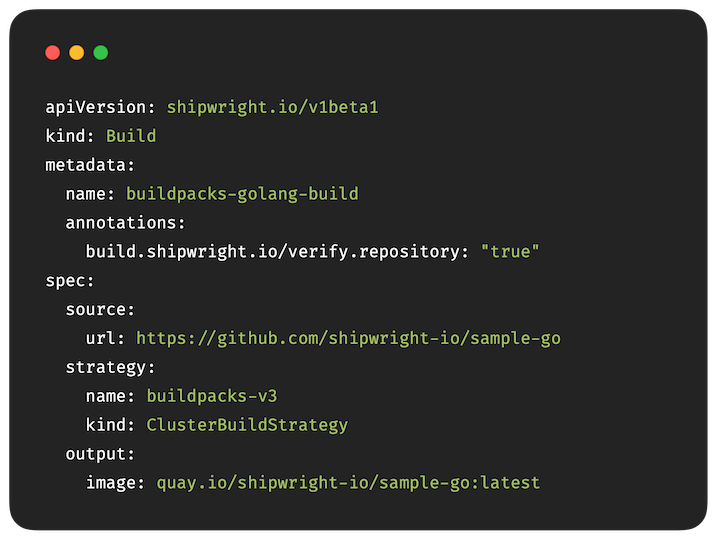
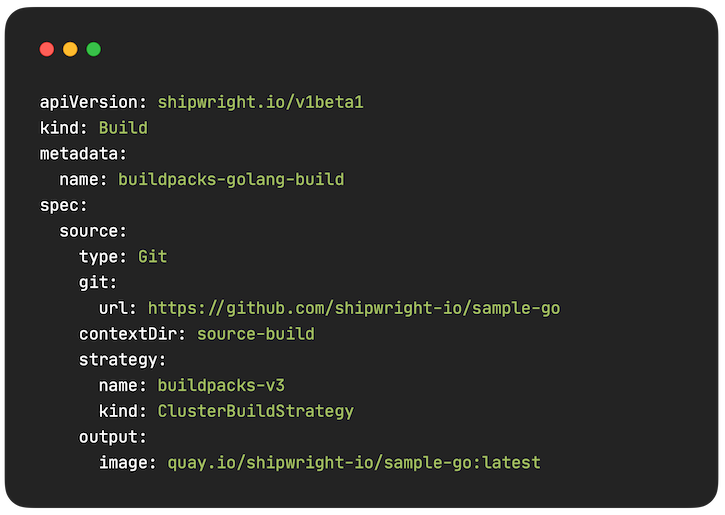
fix: correct docs typos

Changed region(s): [[0.0, 0.0, 1.0, 0.9942], [0.0611, 0.0621, 0.1528, 0.1243], [0.6722, 0.435, 0.7333, 0.4971]]

diff --git a/content/docs/introduction.md b/content/docs/introduction.md
@@ -49,20 +49,21 @@ The `Build` object provides a playbook on how to assemble your specific applicat
 build consists of a git source, a build strategy, and an output image:
 
 ```yaml
-apiVersion: build.dev/v1alpha1
+apiVersion: shipwright.io/v1beta1
 kind: Build
 metadata:
   name: kaniko-golang-build
-  annotations:
-    build.build.dev/build-run-deletion: "true"
 spec:
   source:
-    url: https://github.com/sbose78/taxi
+    type: Git
+    git:
+      url: url: https://github.com/shipwright-io/sample-go
+    contextDir: docker-build
   strategy:
     name: kaniko
     kind: ClusterBuildStrategy
   output:
-    image: registry.mycompany.com/my-org/taxi-app:latest
+    image: registry.mycompany.com/my-org/sample-image:latest
 ```
 
 Builds can be extended to push to private registries, use a different Dockerfile, and more.
@@ -80,7 +81,7 @@ Dockerfile within a container:
 ```yaml
 # this is a fragment of a manifest
 spec:
-  buildSteps:
+  steps:
     - name: build-and-push
       image: gcr.io/kaniko-project/executor:v1.3.0
       workingDir: /workspace/source
